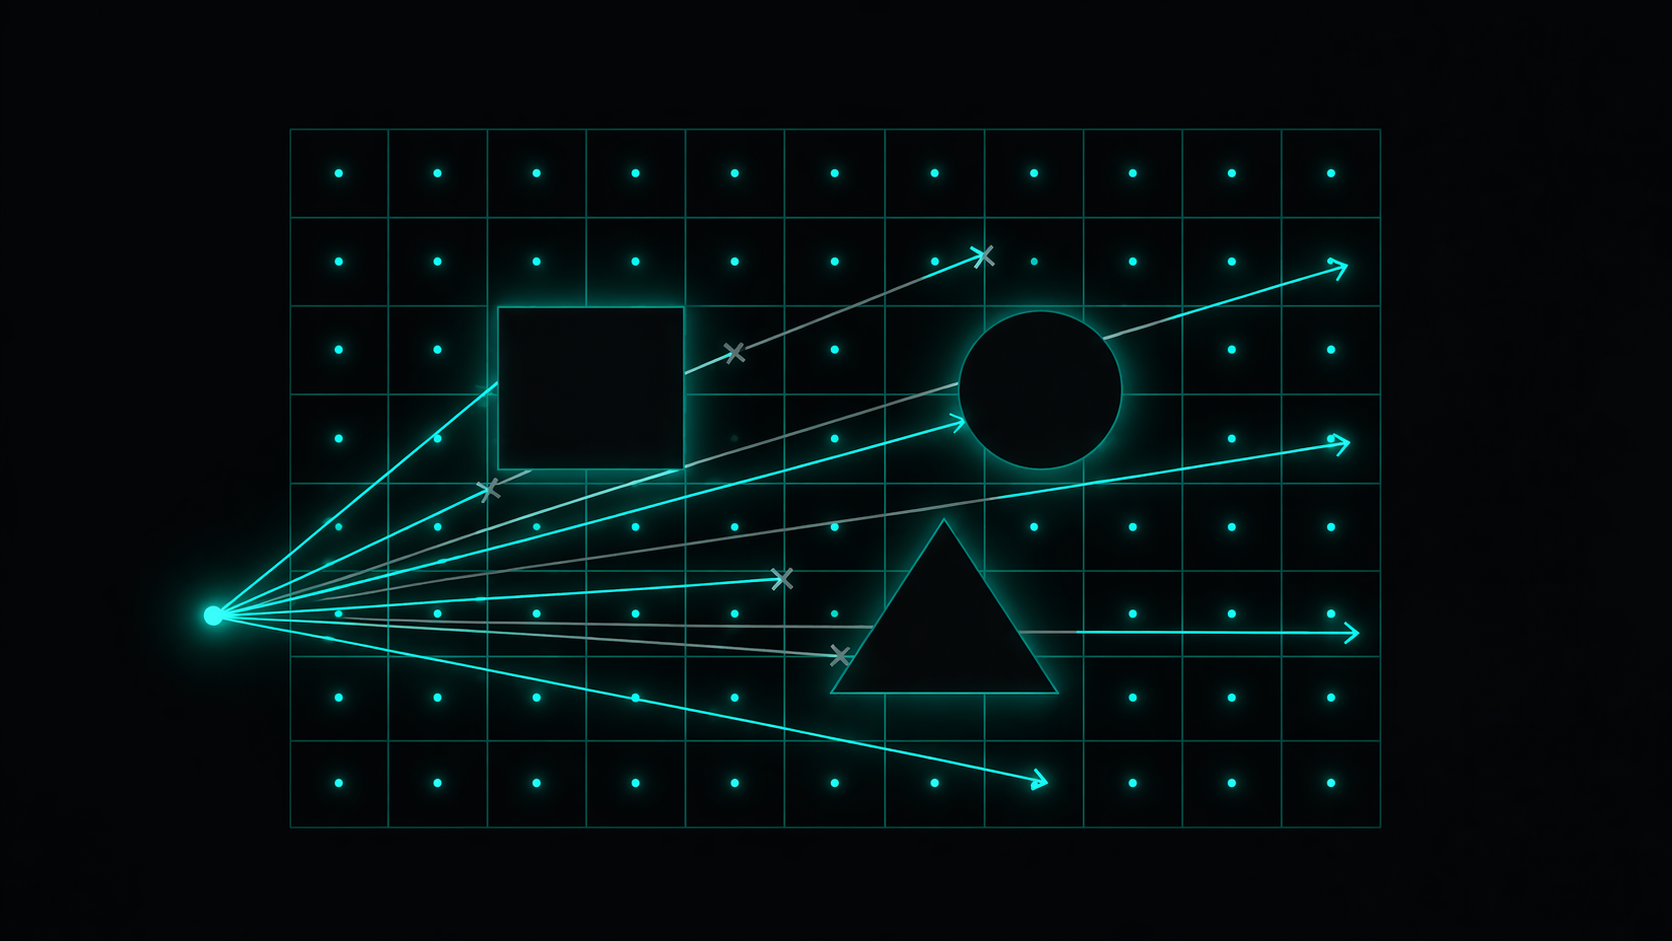
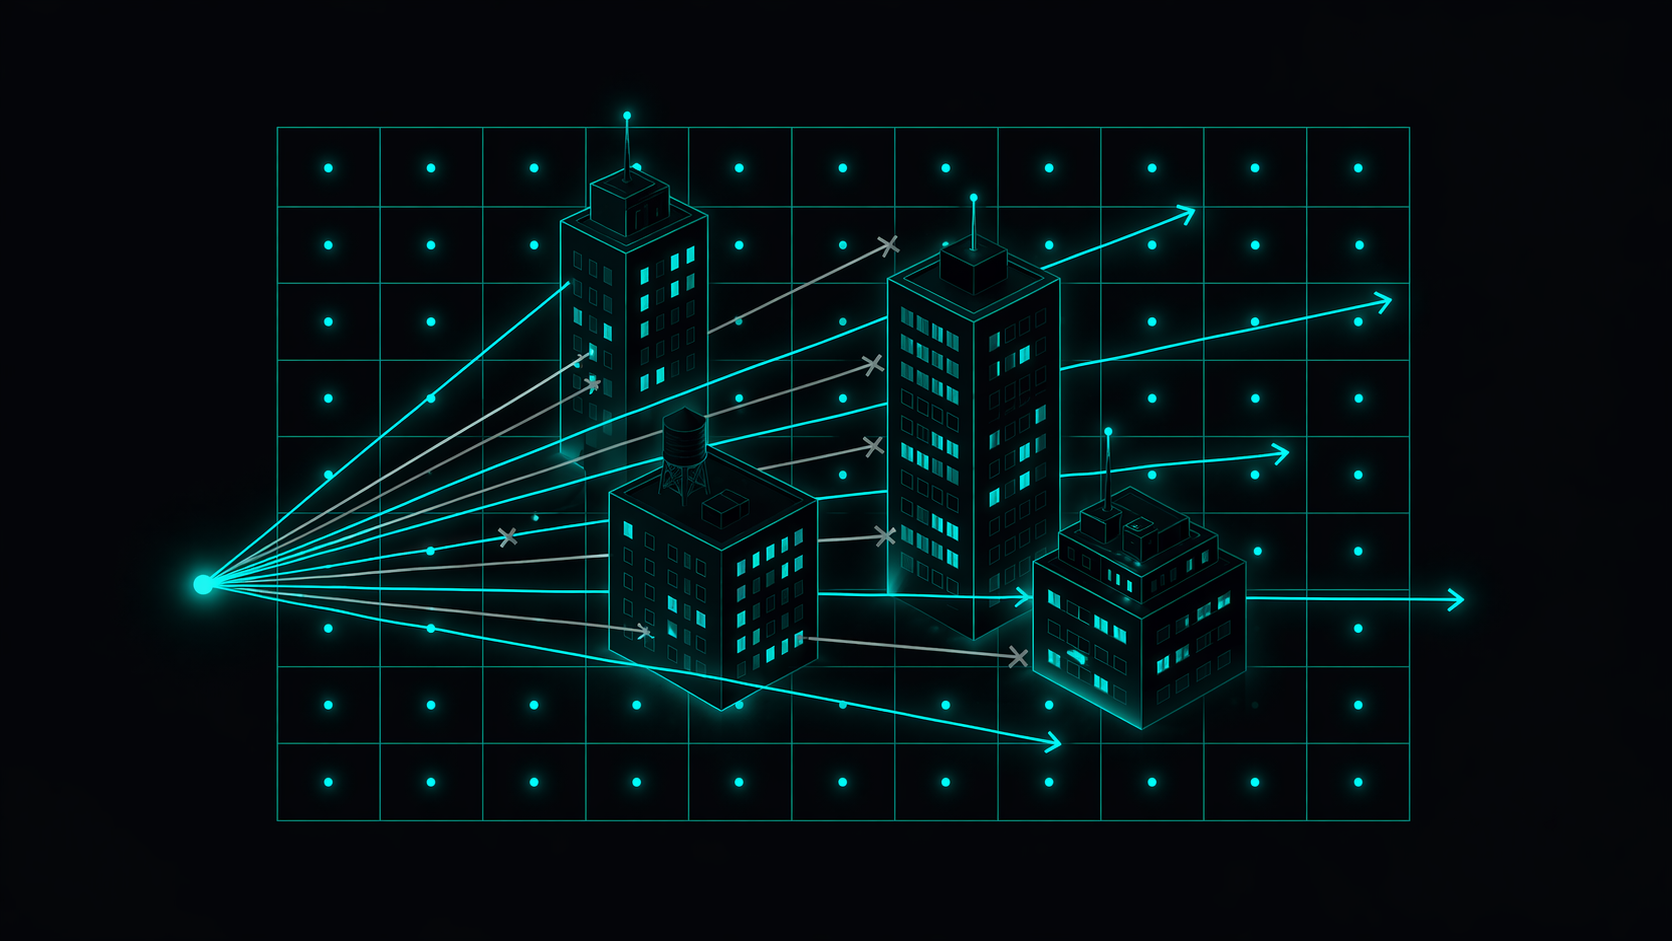
blog: fix broken links — add permalinks to articles 1 and 2

Changed region(s): [[0.0933, 0.1233, 0.9019, 0.8937]]

diff --git a/_posts/2026-03-31-mappy-hour.md b/_posts/2026-03-31-mappy-hour.md
@@ -3,6 +3,7 @@ layout: post
 title: "Mappy Hour : la technologie au service de l'apéro"
 tags: [project, gis, nextjs, swisstopo]
 header_image: /assets/img/mappy-hour.png
+permalink: /mappy-hour
 ---
 
 ![Mappy Hour](/assets/img/mappy-hour.png)

diff --git a/_posts/2026-04-01-mappy-hour-deep-dive.md b/_posts/2026-04-01-mappy-hour-deep-dive.md
@@ -3,6 +3,7 @@ layout: post
 title: "Comment j'ai ray-tracé toute une ville"
 tags: [project, gis, ray-tracing, performance, nextjs, swisstopo]
 header_image: /assets/img/raycasting.png
+permalink: /mappy-hour-deep-dive
 ---
 
 Cet article est la suite technique de [Mappy Hour](/mappy-hour). Si tu veux le pitch et le contexte, commence par là. Ici on parle maths, structures de données et benchmarks.